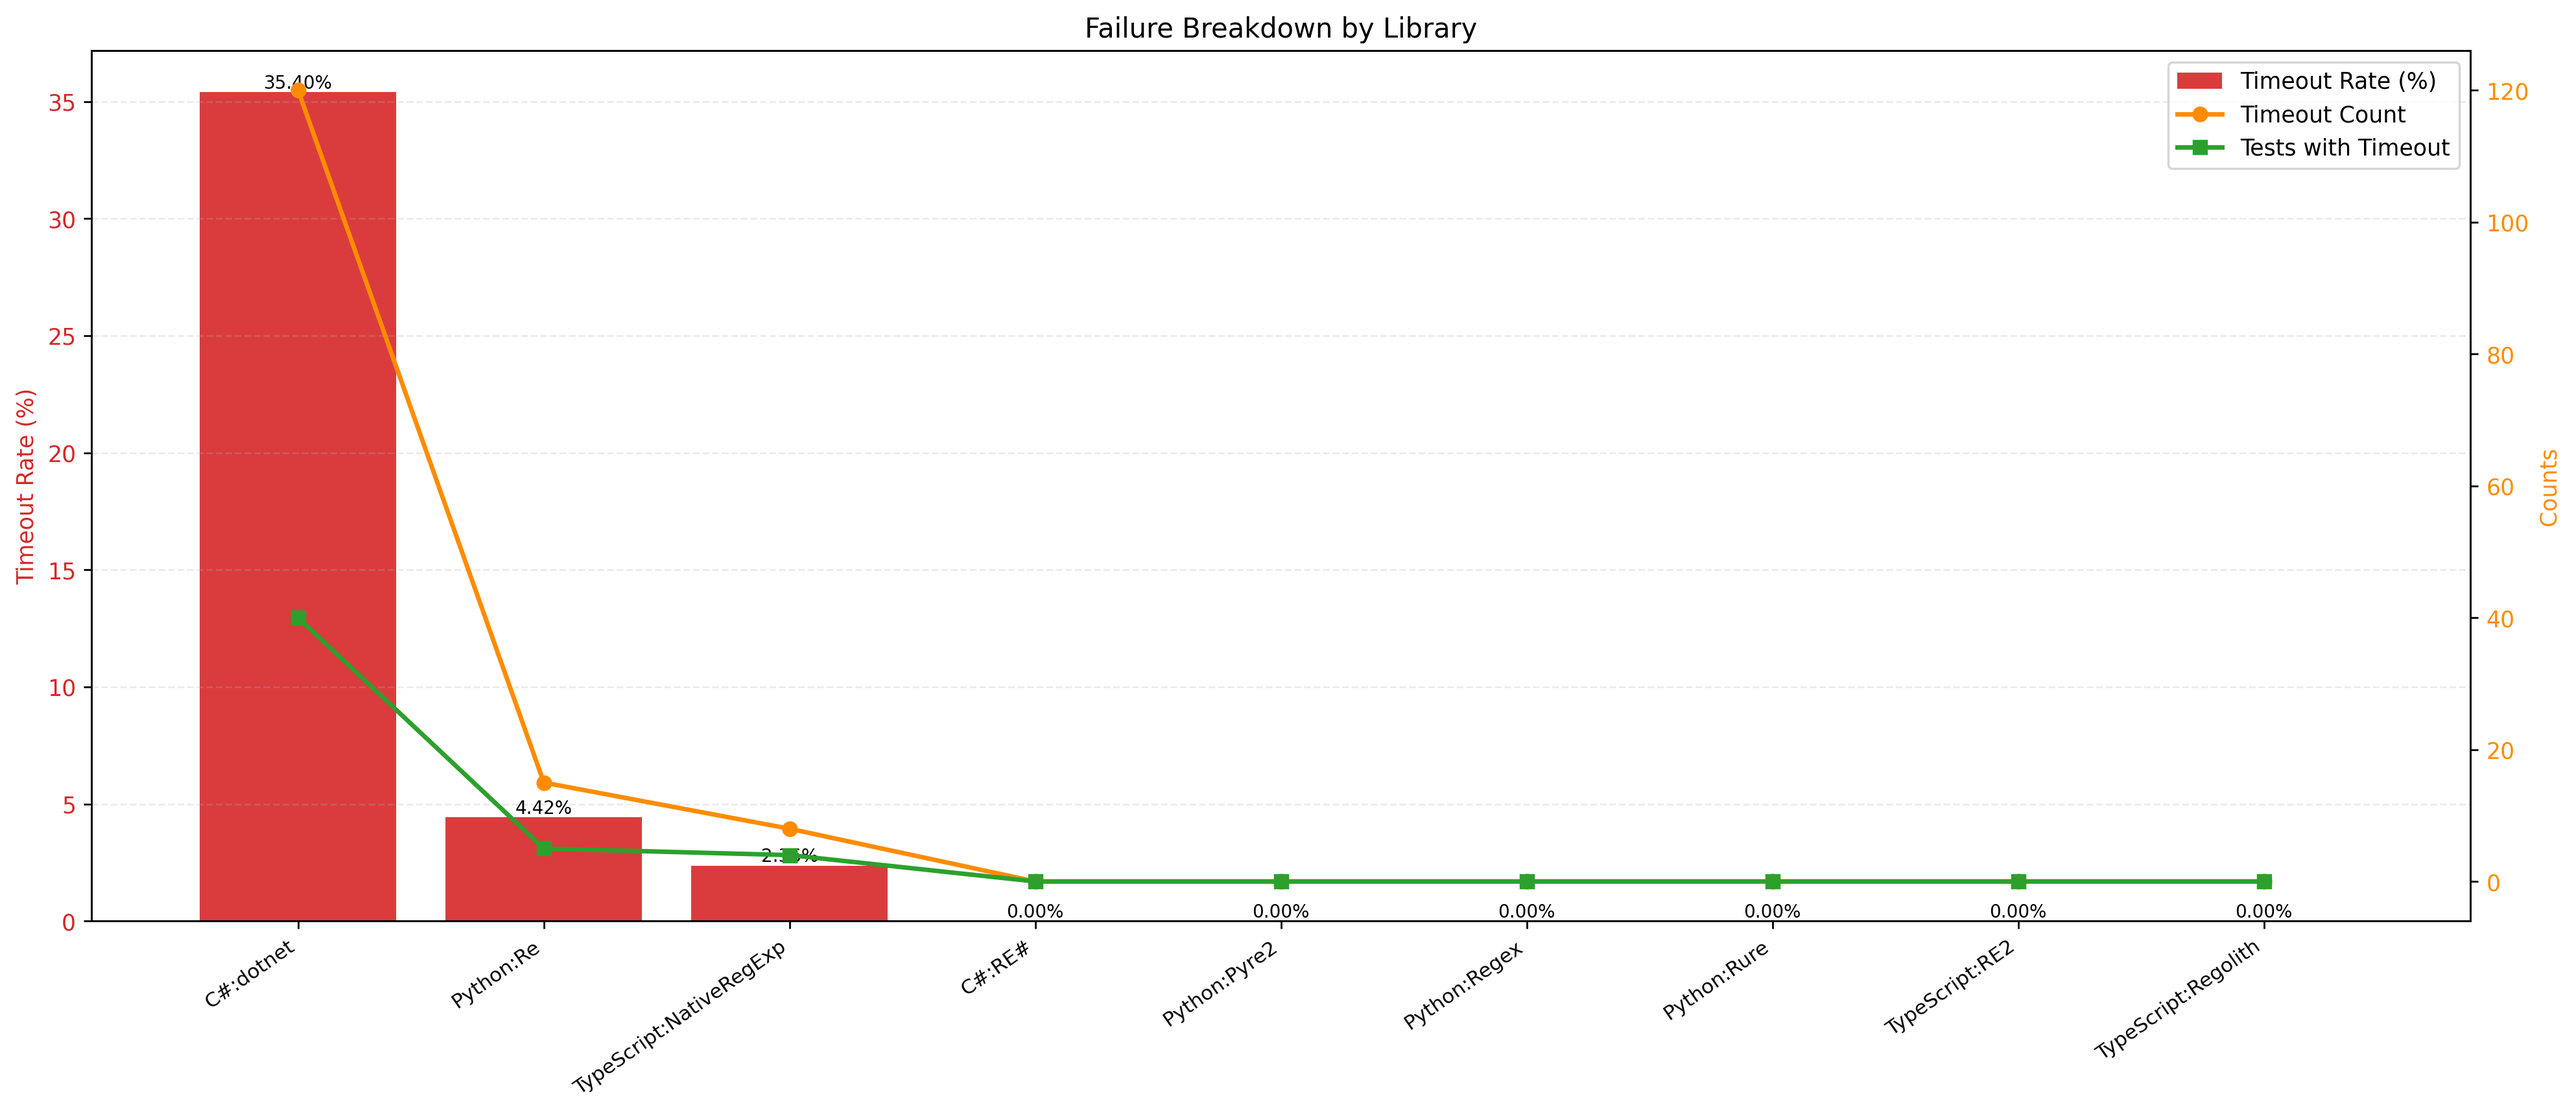
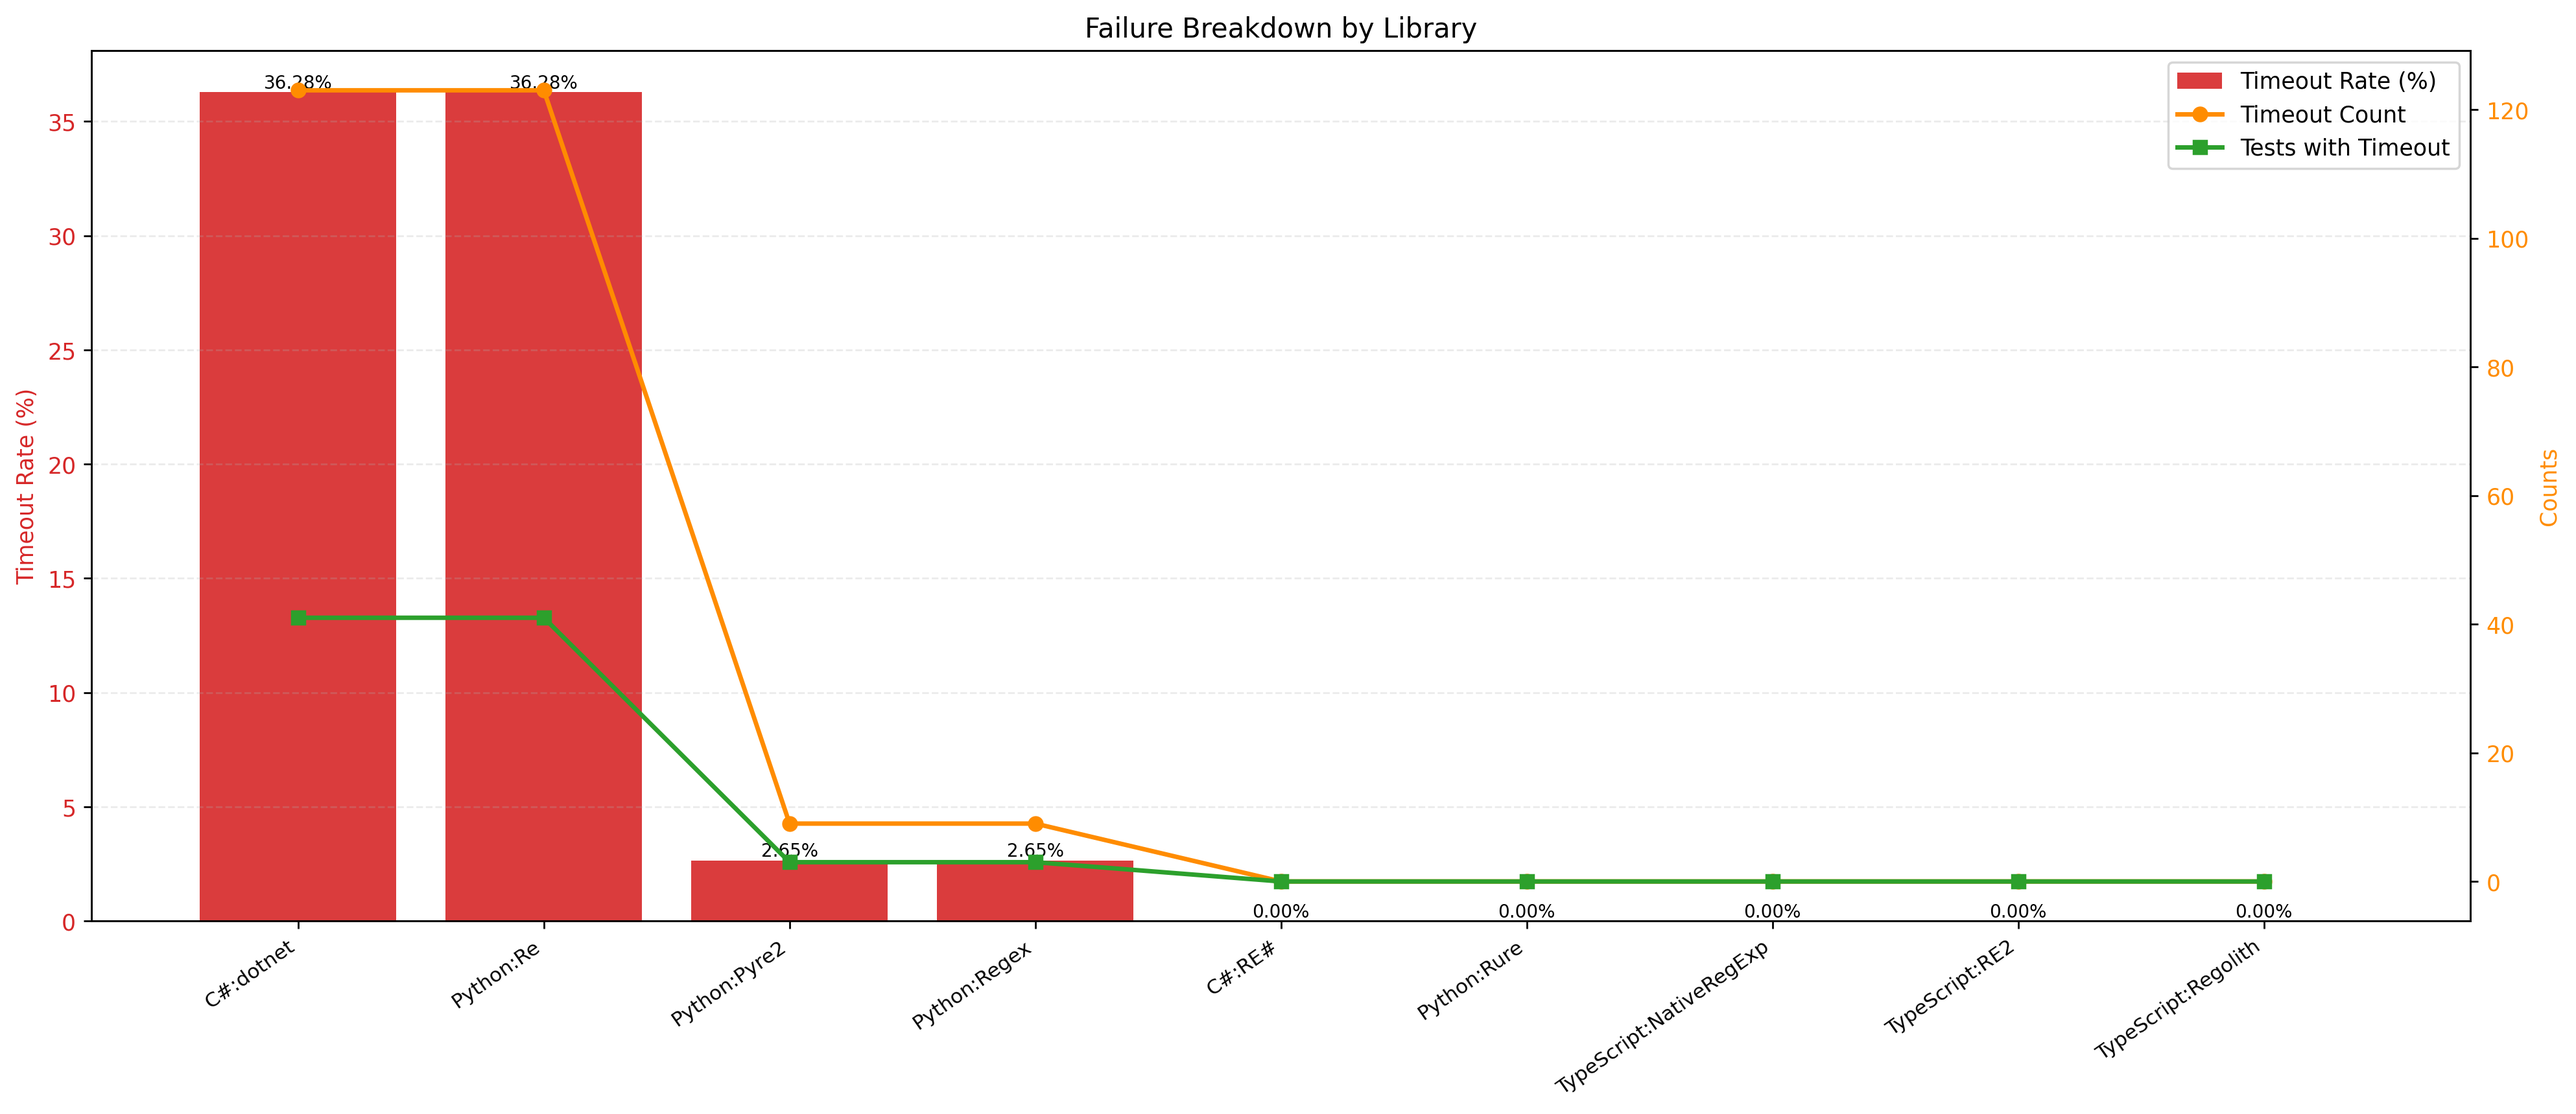
Add full results and runs from pyre2 timeout

diff --git a/python/run_pyre2_timeout10_large.py b/python/run_pyre2_timeout10_large.py
@@ -1,0 +1,114 @@
+import argparse
+import ast
+import json
+from pathlib import Path
+
+from main import Pyre2, RegexLibrary, run_single_test
+
+
+def parse_args() -> argparse.Namespace:
+    repo_root = Path(__file__).resolve().parent.parent
+    default_results = repo_root / "py_redos_test_results_timeout-10.json"
+
+    parser = argparse.ArgumentParser(
+        description="Run only the Pyre2 tests that timed out at ~10 seconds."
+    )
+    parser.add_argument(
+        "--results-file",
+        type=Path,
+        default=default_results,
+        help="Path to py_redos_test_results_timeout-10.json.",
+    )
+    parser.add_argument(
+        "--input-length",
+        type=int,
+        default=100,
+        help="Large input multiplier applied to each test case repeat token.",
+    )
+    parser.add_argument(
+        "--timeout",
+        type=float,
+        default=10.0,
+        help="Timeout in seconds for each test run.",
+    )
+    parser.add_argument(
+        "--target-seconds",
+        type=float,
+        default=10.0,
+        help="Timeout duration (seconds) to filter from the results file.",
+    )
+    parser.add_argument(
+        "--epsilon",
+        type=float,
+        default=0.25,
+        help="Allowed delta around --target-seconds.",
+    )
+    return parser.parse_args()
+
+
+def parse_result(raw_result):
+    if isinstance(raw_result, dict):
+        return raw_result
+    if isinstance(raw_result, str):
+        try:
+            parsed = ast.literal_eval(raw_result)
+        except (ValueError, SyntaxError):
+            return None
+        return parsed if isinstance(parsed, dict) else None
+    return None
+
+
+def collect_timeout_test_ids(
+    results_file: Path, target_seconds: float, epsilon: float
+) -> list[int]:
+    with results_file.open("r", encoding="utf-8") as f:
+        payload = json.load(f)
+
+    test_ids = set()
+    for entry in payload.get("results", []):
+        if entry.get("library") != "Pyre2":
+            continue
+
+        result = parse_result(entry.get("result"))
+        if not result or not result.get("timed_out"):
+            continue
+
+        duration = result.get("time")
+        if isinstance(duration, (float, int)) and abs(duration - target_seconds) <= epsilon:
+            test_ids.add(int(entry["test_id"]))
+
+    return sorted(test_ids)
+
+
+def main() -> None:
+    args = parse_args()
+    RegexLibrary.TIMEOUT_SECONDS = args.timeout
+
+    test_ids = collect_timeout_test_ids(
+        results_file=args.results_file,
+        target_seconds=args.target_seconds,
+        epsilon=args.epsilon,
+    )
+
+    if not test_ids:
+        print("No matching timed-out Pyre2 test IDs found.")
+        return
+
+    print(f"Matched Pyre2 timeout test IDs: {test_ids}")
+    print(
+        f"Running {len(test_ids)} tests with input_length={args.input_length} "
+        f"and timeout={args.timeout}s"
+    )
+
+    for test_id in test_ids:
+        results = run_single_test(
+            test_id=test_id,
+            libraries=[Pyre2()],
+            input_size=args.input_length,
+        )
+        for result in results:
+            print(result)
+
+
+if __name__ == "__main__":
+    main()

diff --git a/results_table.py b/results_table.py
@@ -5,6 +5,7 @@ from __future__ import annotations
 
 import argparse
 import ast
+import glob
 import json
 from pathlib import Path
 from statistics import mean, median
@@ -37,9 +38,10 @@ def parse_args() -> argparse.Namespace:
     )
     parser.add_argument(
         "--ts",
-        type=Path,
-        default=Path("ts_redos_test_results.json"),
-        help="Path to TypeScript results JSON.",
+        type=str,
+        nargs="+",
+        default=["ts_redos_test_results.json"],
+        help="TypeScript results JSON path(s) or glob pattern(s).",
     )
     parser.add_argument(
         "--cs",
@@ -141,6 +143,29 @@ def load_dataset(path: Path, label: str) -> dict:
         )
 
     return {"dataset_row": dataset_row, "library_rows": library_rows}
+
+
+def expand_input_paths(raw_paths: list[str], arg_name: str) -> list[Path]:
+    expanded: list[Path] = []
+    for raw_path in raw_paths:
+        matches = sorted(Path(match) for match in glob.glob(raw_path))
+        if matches:
+            expanded.extend(path for path in matches if path.is_file())
+        else:
+            candidate = Path(raw_path)
+            if candidate.exists() and candidate.is_file():
+                expanded.append(candidate)
+            else:
+                raise FileNotFoundError(f"No files matched {arg_name} value: {raw_path}")
+
+    unique_paths: list[Path] = []
+    seen: set[Path] = set()
+    for path in expanded:
+        resolved = path.resolve()
+        if resolved not in seen:
+            seen.add(resolved)
+            unique_paths.append(path)
+    return unique_paths
 
 
 def fmt_int(value: int) -> str:
@@ -312,7 +337,10 @@ def save_matplotlib_tables(
 
 
 def dataset_color(dataset: str) -> str:
-    return LANGUAGE_COLORS.get(dataset, "#7f7f7f")
+    for language, color in LANGUAGE_COLORS.items():
+        if dataset == language or dataset.startswith(f"{language} ("):
+            return color
+    return "#7f7f7f"
 
 
 def save_overall_dashboard(library_rows: list[dict], output_path: Path, dpi: int) -> None:
@@ -464,11 +492,14 @@ def save_speed_vs_failure_scatter(library_rows: list[dict], output_path: Path, d
 def main() -> None:
     args = parse_args()
 
-    datasets = [
-        load_dataset(args.py, "Python"),
-        load_dataset(args.ts, "TypeScript"),
-        load_dataset(args.cs, "C#"),
-    ]
+    ts_paths = expand_input_paths(args.ts, "--ts")
+    ts_labels = (
+        ["TypeScript"] if len(ts_paths) == 1 else [f"TypeScript ({path.stem})" for path in ts_paths]
+    )
+
+    datasets = [load_dataset(args.py, "Python")]
+    datasets.extend(load_dataset(path, label) for path, label in zip(ts_paths, ts_labels))
+    datasets.append(load_dataset(args.cs, "C#"))
 
     dataset_rows = [d["dataset_row"] for d in datasets]
     library_rows = [r for d in datasets for r in d["library_rows"]]
